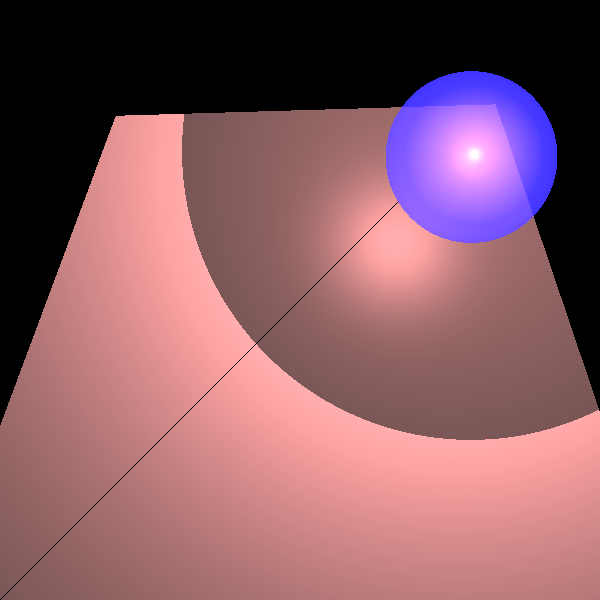
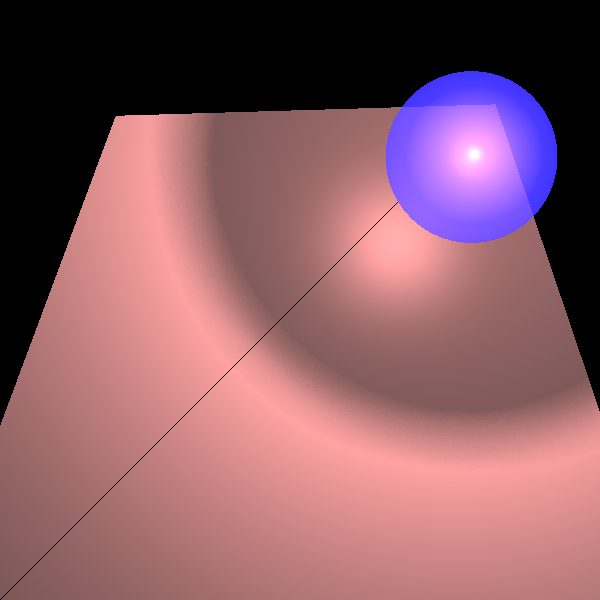
ד

Changed region(s): [[0.27, 0.18, 1.0, 0.78]]

diff --git a/src/unittests/ReflectionRefractionTests.java b/src/unittests/ReflectionRefractionTests.java
@@ -107,7 +107,7 @@ public class ReflectionRefractionTests {
 						.setMaterial(new Material().setKD(0.2).setKS(0.2).setnShininess(30).setkT(0.6)));
 
 		scene.lights.add(new SpotLight(new Color(700, 400, 400), new Point3D(60, 50, 0), new Vector(0, 0, -1)) //
-				.setKl(4E-5).setKq(2E-7));
+				.setKl(4E-5).setKq(2E-7).setRadius(4).setBeamsNum(100));
 
 		ImageWriter imageWriter = new ImageWriter("refractionShadow", 600, 600);
 		Render render = new Render() //
@@ -192,7 +192,7 @@ public class ReflectionRefractionTests {
 																									 * , new Vector(-1,
 																									 * 0, -2)
 																									 */) //
-						.setKl(1E-5).setKq(1.5E-7).setRadius(3).setBeamsNum(400));//
+						.setKl(1E-5).setKq(1.5E-7).setRadius(50).setBeamsNum(9));//
 
 		Render render = new Render() //
 				.setImageWriter(new ImageWriter("Sphere", 600, 600)) //
